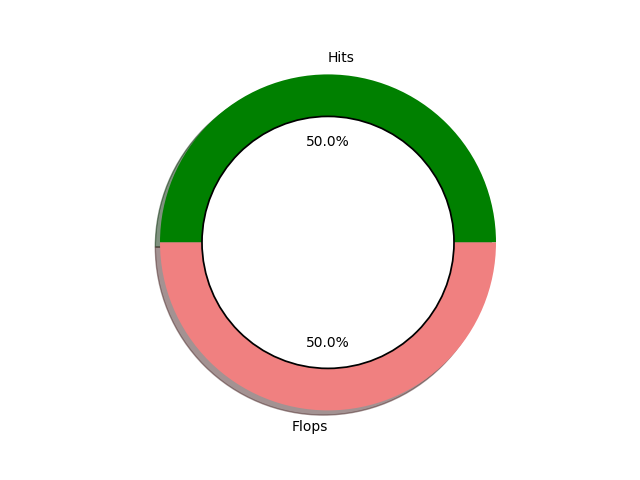
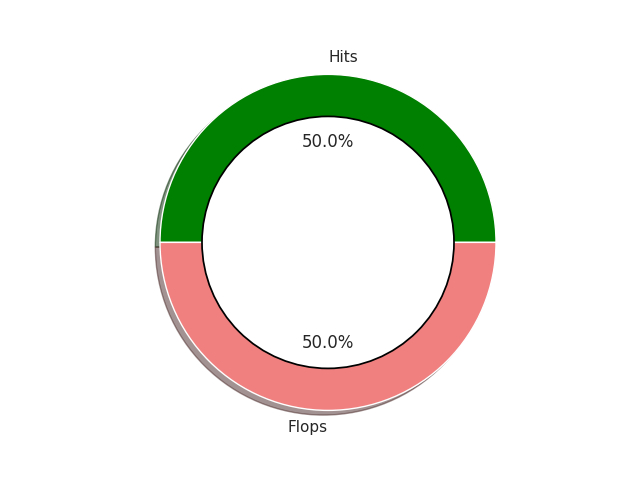
v-2.0.1 : Updated data science functionalities

diff --git a/frontend/src/containers/ArtistDetail.js b/frontend/src/containers/ArtistDetail.js
@@ -2,13 +2,24 @@ import React from 'react';
 import axios from 'axios';
 import './App.css';
 
+import plot from './plot.png';
+import stats from './stats.png';
+
 import { Descriptions } from 'antd';
+
+function get_plots(){
+  import plot from "./plot.png";
+  import stats from "./stats.png";
+
+  return {plot: plot, stats: stats};
+}
 
 class ArtistDetail extends React.Component{
 
   state = {
     artist : {},
     song : [],
+    plot, stats
   }
 
   componentDidMount(){
@@ -28,17 +39,18 @@ class ArtistDetail extends React.Component{
     this.setState({
         song: art_song
     });
+    console.log(this.state.song)
   }
 
   render(){
-    return(
-            
-          <Descriptions title="Artist Info">
+    return(         
+          <Descriptions title="Artist Info" column={2}>
             <Descriptions.Item label="Name" className="App-label">{this.state.artist.name}</Descriptions.Item>
-    <Descriptions.Item label="Date Of Birth" className="App-label">{this.state.artist.dob}</Descriptions.Item>
-    <Descriptions.Item label="Rating" className="App-label">{this.state.artist.rating}</Descriptions.Item>
-    <Descriptions.Item label="Songs" className="App-label">{this.state.song}</Descriptions.Item>
-    <img src={process.env.PUBLIC_URL + '/logo.png'} alt="plot" />
+            <Descriptions.Item label="Date Of Birth" className="App-label">{this.state.artist.dob}</Descriptions.Item>
+            <Descriptions.Item label="Rating" className="App-label">{this.state.artist.rating}</Descriptions.Item>
+            <Descriptions.Item label="Songs" className="App-label">{this.state.song}</Descriptions.Item>
+            <Descriptions.Item label="Plot" className="App-label"><img src={ plot } alt="plot" /></Descriptions.Item>
+            <Descriptions.Item label="Stats" className="App-label"><img src={ stats } alt="stats" /></Descriptions.Item>
           </Descriptions>
     )
   }

diff --git a/frontend/src/containers/Homepage.js b/frontend/src/containers/Homepage.js
@@ -86,10 +86,19 @@ class Homepage extends React.Component{
   state = {
     artists : [],
     songs: [],
-    genre: ''
+    genre: '',
+    top_artist: '',
+    max_voted_song: '',
   }
 
   componentDidMount(){
+    axios.get('http://127.0.0.1:8000/api/stats/').then(res => {
+      this.setState({
+        top_artist : res.data.most_rated_artist,
+        max_voted_song : res.data.most_voted_song
+      });
+    })
+
     axios.get('http://127.0.0.1:8000/api/artist/')
       .then(res => {
         this.setState({
@@ -105,11 +114,11 @@ class Homepage extends React.Component{
       })
     
     var arr = "";
-    if(UserProfile.getId() != ""){
+    if(UserProfile.getId() !== ""){
       axios.get('http://127.0.0.1:8000/api/users')
       .then(res => {
         res.data.map( (val) => {
-          if(val.name == UserProfile.getId()){
+          if(val.name === UserProfile.getId()){
             this.setState({
               genre : val.genre
             });
@@ -118,7 +127,7 @@ class Homepage extends React.Component{
         console.log(this.state.genre);
       }).then(() => {
         this.state.songs.map( (val) => {
-          if(this.state.genre == val.genre){ arr = arr + val.name + " , "; }
+          if(this.state.genre === val.genre){ arr = arr + val.name + " , "; }
         });
         console.log(arr)
       }).then(() => {sign = <span><h1><p>Your preference of songs : { arr }</p></h1></span>});
@@ -129,7 +138,11 @@ class Homepage extends React.Component{
   render(){
     return(
       <div>
-        {sign}
+        <span> <h1> Top rated artist : </h1> {this.state.top_artist} </span>
+        <span> <h1> Maximum voted song : </h1> {this.state.max_voted_song} </span>
+        <hr></hr>
+        <span> {sign} </span>
+        <hr></hr>
         <span><h1><p>Top 10 Artists</p></h1></span>
         <Artist col={ar_columns} data={this.state.artists} />
         <br />

diff --git a/backend/homepage/api/views.py b/backend/homepage/api/views.py
@@ -1,4 +1,6 @@
+from django.http import HttpResponseRedirect
 from rest_framework.generics import ListAPIView, RetrieveAPIView, CreateAPIView
+from django.db.models import Max
 
 from homepage.models import Artist, Songs, Users
 from .serializers import ArtistSerializer, SongSerializer, UsersSerializer
@@ -66,10 +68,14 @@ class Plot(APIView):
     def get(self, request, id):
 
         import matplotlib.pyplot as plt
+        import seaborn as sns
+
+        sns.set()
 
         hits = 0
         flops = 0
         song_lst = Songs.objects.all().filter(artists = id)
+        
         for i in song_lst:
             if i.average_rating > 2.5:
                 hits += 1
@@ -85,13 +91,34 @@ class Plot(APIView):
         fig.gca().add_artist(centre_circle)
         plt.axis('equal')
         plt.savefig('../frontend/src/containers/plot.png')
+        
+        plt.close()
+        
+        song_lst = Songs.objects.all().filter(artists = id).order_by('dor')
+        x_val = []
+        y_val = []
+
+        for i in song_lst:
+            x_val.append(i.name)
+            y_val.append(i.average_rating)
+        
+        plt.plot(x_val, y_val, 'g-')
+        plt.xlabel('Songs')
+        plt.ylabel('Rating')
+        plt.savefig('../frontend/src/containers/stats.png')
+
+        plt.close()
+
         return Response("200")
 
 class SimpleView(APIView): 
    def post(self, request):
-       ar = Artist(name=request.data['name'], dob= request.data['dob'][:10], rating= 0.0)
-       ar.save()
-       return Response("Simple")
+       try:
+           ar = Artist(name=request.data['name'], dob= request.data['dob'][:10], rating= 0.0)
+           ar.save()
+           return HttpResponseRedirect("http://localhost:3000")
+       except:
+            return Response("Validation of data failed")
 
 
 class Song_addView(APIView): 
@@ -111,4 +138,21 @@ class Song_addView(APIView):
        ar.rating = count / num
        ar.save()
 
-       return Response("Simple")
+       return HttpResponseRedirect("http://localhost:3000")
+
+
+class StatsView(APIView):
+    def get(self, request):
+        import json
+
+        data = dict()
+
+        max_rated = Artist.objects.all().aggregate(Max('rating'))
+        ar = Artist.objects.all().filter(rating = max_rated['rating__max'])
+        data['most_rated_artist'] = ar[0].name
+
+        song = Songs.objects.all().aggregate(Max('average_rating'))
+        s = Songs.objects.all().filter(average_rating = song['average_rating__max'])
+        data['most_voted_song'] = s[0].name
+
+        return Response(data)

diff --git a/backend/homepage/api/urls.py b/backend/homepage/api/urls.py
@@ -1,6 +1,6 @@
 from django.urls import path
 
-from .views import ArtistView, ArtistDetailView, SongView, SongDetailView, SimpleView, Song_addView, Plot, UserView, UpdateGenre
+from .views import ArtistView, ArtistDetailView, SongView, SongDetailView, SimpleView, Song_addView, Plot, UserView, UpdateGenre, StatsView
 
 urlpatterns = [
     path('artist/', ArtistView.as_view()),
@@ -10,6 +10,7 @@ urlpatterns = [
     path('add_artist/', SimpleView.as_view()),
     path('add_song/', Song_addView.as_view()),
     path('plot/<int:id>', Plot.as_view()),
-    path('users', UserView.as_view()),
-    path('update_genre', UpdateGenre.as_view())
+    path('users/', UserView.as_view()),
+    path('update_genre/', UpdateGenre.as_view()),
+    path('stats/', StatsView.as_view())
 ]

diff --git a/backend/homepage/views.py b/backend/homepage/views.py
@@ -7,12 +7,12 @@ from .models import Artist, Songs
 
 from operator import itemgetter
 
-def index(request):
-    artist_list = Artist.objects.all()[:10]
-    song_list = Songs.objects.all()[:10]
-    template = loader.get_template('home/index.html')
-    context = json.dumps({
-        'artist_list' : artist_list,
-        'song_list' : song_list,
-    })
-    return HttpResponse(template.render(context, request))
+# def index(request):
+#     artist_list = Artist.objects.all()[:10]
+#     song_list = Songs.objects.all()[:10]
+#     template = loader.get_template('home/index.html')
+#     context = json.dumps({
+#         'artist_list' : artist_list,
+#         'song_list' : song_list,
+#     })
+#     return HttpResponse(template.render(context, request))

diff --git a/backend/MusicApp/settings.py b/backend/MusicApp/settings.py
@@ -28,6 +28,7 @@ INSTALLED_APPS = [
 ]
 
 MIDDLEWARE = [
+    'django_referrer_policy.middleware.ReferrerPolicyMiddleware',
     'corsheaders.middleware.CorsMiddleware',
     'django.middleware.security.SecurityMiddleware',
     'django.contrib.sessions.middleware.SessionMiddleware',
@@ -120,6 +121,8 @@ REST_FRAMEWORK = {
         'rest_framework.parsers.JSONParser',
     ]
 }
+
+REFERRER_POLICY = 'no-referrer'
 
 CORS_ORIGIN_ALLOW_ALL = True
 

diff --git a/backend/MusicApp/urls.py b/backend/MusicApp/urls.py
@@ -3,7 +3,7 @@ from django.urls import path, include
 
 urlpatterns = [
     path('admin/', admin.site.urls),
-    path('', include('homepage.urls')),
+    # path('', include('homepage.urls')),
     path('api/', include('homepage.api.urls')),
     path('api-auth/', include('rest_framework.urls'))
 ]

diff --git a/README.md b/README.md
@@ -1,8 +1,6 @@
 ## Project : Music Webapp
 
 
-
-
 ## Table of contents :
 
 ### [ Technology stack ](#Technologies-Used)
